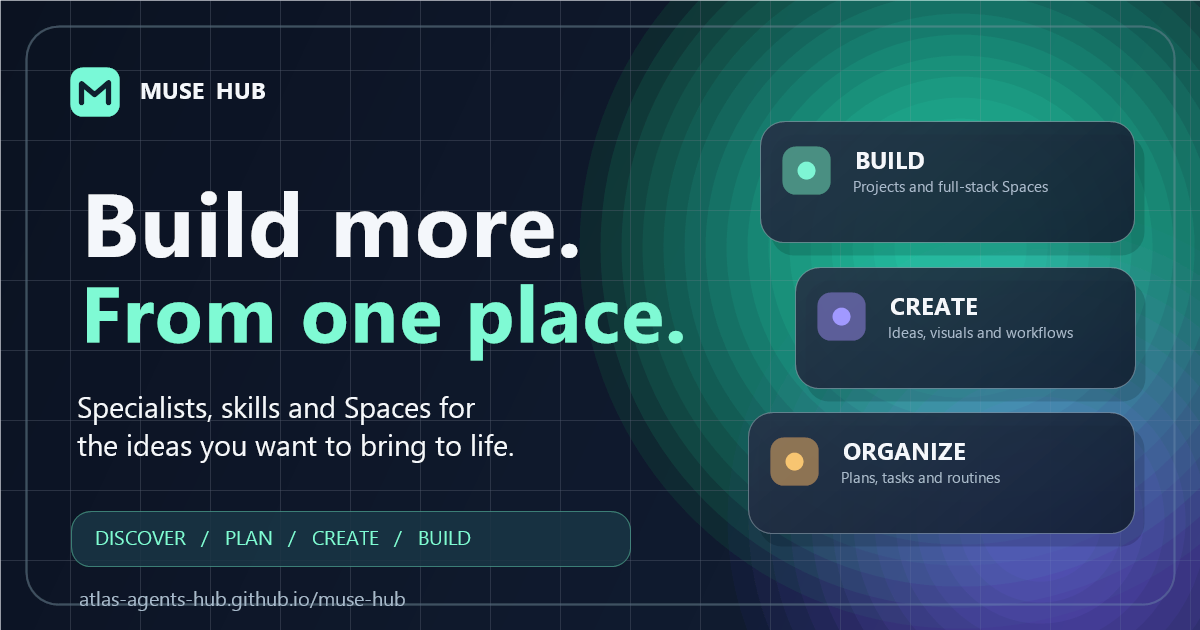
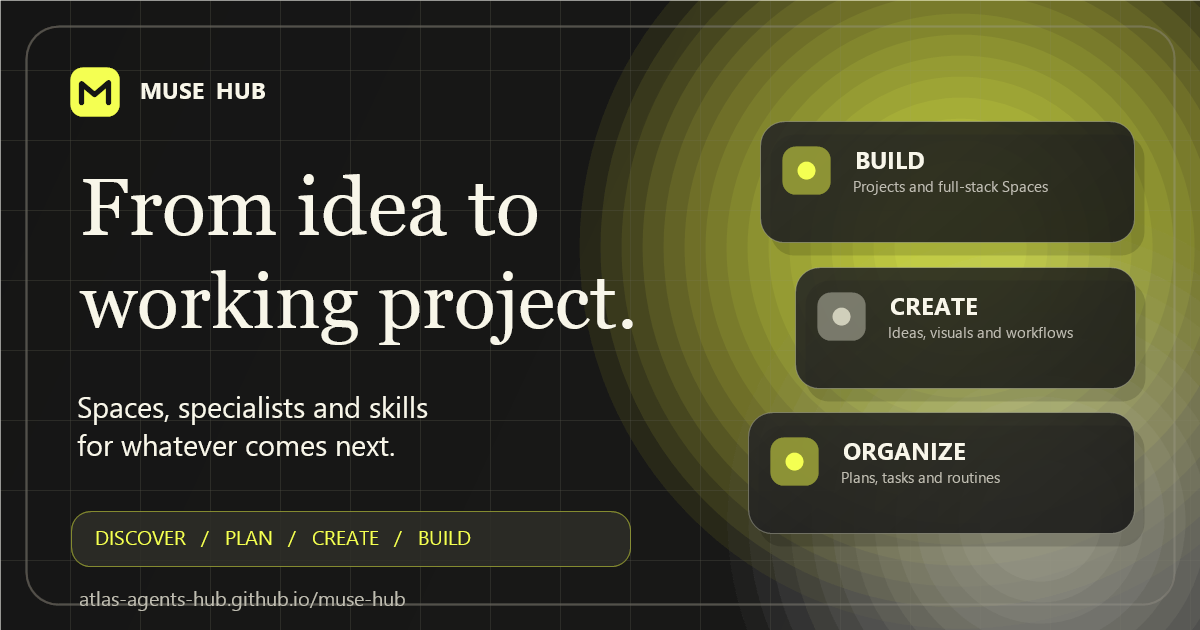
Restore Muse Hub brand palette and editorial typography

diff --git a/hub/site/site.css b/hub/site/site.css
@@ -361,118 +361,118 @@ button { cursor:pointer; }
 
 
 /* Muse Hub R3: product-first homepage. Scoped to this page only. */
-.muse-premium{--black:#0d1727;--paper:#f7f5ee;--paper-strong:#fffefa;--signal:#80ecd0;--line-dark:#334153;--line-paper:#d9dfdb;background:#0d1727;color:#f7f8f4;font:16px/1.55 Inter,"Segoe UI",Arial,sans-serif}
+.muse-premium{--black:#151515;--ink:#161616;--paper:#f8f6e9;--paper-strong:#fffcf1;--signal:#f4ff52;--line-dark:#43433f;--line-paper:#c9c7bd;background:var(--black);color:var(--paper);font:16px/1.56 var(--sans)}
 .muse-premium .shell{width:min(1160px,calc(100% - 64px))}
-.muse-premium :is(a,button,input,select,summary):focus-visible{outline:3px solid #53dfbd;outline-offset:4px}
-.muse-premium .site-header{background:#0d1727;border-bottom:1px solid #2f3c4b;position:sticky;top:0;z-index:60}
+.muse-premium :is(a,button,input,select,summary):focus-visible{outline:3px solid #f4ff52;outline-offset:4px}
+.muse-premium .site-header{background:#151515;border-bottom:1px solid #43433f;position:sticky;top:0;z-index:60}
 .muse-premium .header-inner{min-height:78px;gap:26px}
 .muse-premium .brand-text{letter-spacing:.10em;font-weight:820}
 .muse-premium .header-nav{gap:34px}
 .muse-premium .header-nav a{font-size:14px;font-weight:640}
-.muse-premium .header-github{font-size:13px;font-weight:700;border:1px solid #526374;border-radius:9px;padding:10px 15px}
+.muse-premium .header-github{font-size:13px;font-weight:700;border:1px solid #777770;border-radius:2px;padding:10px 15px}
 .muse-premium .mobile-navigation{display:none}
-.muse-premium .premium-eyebrow{display:inline-flex;align-items:center;gap:10px;letter-spacing:.14em;font-size:11px;font-weight:800;color:#398e7d}
-.muse-premium .premium-status-dot{width:8px;height:8px;border-radius:50%;background:#7aebc5;box-shadow:0 0 0 5px #7aebc51f;display:inline-block}
-.muse-premium .premium-hero{padding:84px 0 85px;background:radial-gradient(ellipse at 80% 18%,#284559 0%,#14263b 35%,#0d1727 75%);overflow:hidden}
+.muse-premium .premium-eyebrow{display:inline-flex;align-items:center;gap:10px;letter-spacing:.14em;font-size:11px;font-weight:800;color:#64624f}
+.muse-premium .premium-status-dot{width:8px;height:8px;border-radius:50%;background:#f4ff52;box-shadow:0 0 0 5px #f4ff521f;display:inline-block}
+.muse-premium .premium-hero{padding:84px 0 85px;background:var(--black);overflow:hidden}
 .muse-premium .premium-hero-grid{display:grid;grid-template-columns:minmax(0,1.06fr) minmax(340px,.94fr);align-items:center;gap:65px}
-.muse-premium .premium-hero .premium-eyebrow{color:#9ae9d4}
-.muse-premium .premium-hero h1{font-family:Inter,"Segoe UI",Arial,sans-serif;letter-spacing:-.065em;font-weight:820;font-size:clamp(48px,5.9vw,80px);line-height:1.02;max-width:720px;margin:22px 0 25px;text-wrap:balance}
-.muse-premium .premium-hero h1 span{color:#8ef0d4}
-.muse-premium .premium-lead{font-size:clamp(16px,1.55vw,19px);color:#cfdae0;max-width:595px;line-height:1.67;margin:0}
+.muse-premium .premium-hero .premium-eyebrow{color:var(--signal)}
+.muse-premium .premium-hero h1{font-family:var(--serif);letter-spacing:-.055em;font-weight:400;font-size:clamp(59px,6.5vw,104px);line-height:.985;max-width:720px;margin:22px 0 25px;text-wrap:balance}
+.muse-premium .premium-hero h1 span{color:var(--paper)}
+.muse-premium .premium-lead{font-size:clamp(16px,1.55vw,19px);color:#d3d2c8;max-width:595px;line-height:1.67;margin:0}
 .muse-premium .premium-hero-actions{display:flex;align-items:center;gap:12px;flex-wrap:wrap;margin-top:28px}
-.muse-premium .premium-button{display:inline-flex;justify-content:center;align-items:center;gap:20px;text-decoration:none;font-weight:780;font-size:14px;border-radius:11px;min-height:52px;padding:13px 19px;transition:transform .2s ease,background .2s ease,border-color .2s ease;text-align:center}
+.muse-premium .premium-button{display:inline-flex;justify-content:center;align-items:center;gap:20px;text-decoration:none;font-weight:780;font-size:14px;border-radius:2px;min-height:52px;padding:13px 19px;transition:transform .2s ease,background .2s ease,border-color .2s ease;text-align:center}
 .muse-premium .premium-button:hover{transform:translateY(-2px)}
-.muse-premium .premium-button-primary{background:#80ecd0;color:#122733}
-.muse-premium .premium-button-primary:hover{background:#a3f9e3}
-.muse-premium .premium-button-outline{border:1px solid #53677b;color:#f5f9fb;background:#ffffff08}
-.muse-premium .premium-button-outline:hover{border-color:#b0d3d6;background:#ffffff13}
-.muse-premium .premium-release{font-size:11px;color:#8196a8;margin-top:23px}
-.muse-premium .premium-product-preview{min-width:0;border:1px solid #476074;border-radius:24px;background:linear-gradient(160deg,#263d50,#101f31);padding:19px;box-shadow:0 25px 85px #050a14a6, inset 0 1px 0 #ffffff18;transform:rotate(1.5deg)}
-.muse-premium .premium-preview-top{display:flex;align-items:center;justify-content:space-between;gap:7px;font-size:10px;letter-spacing:.14em;color:#a9c2ca}
-.muse-premium .premium-preview-top>span:first-child{color:#7ee8d0;letter-spacing:.3em}
-.muse-premium .premium-preview-live{color:#95f4d8;border:1px solid #78eacc50;border-radius:99px;padding:4px 9px;font-size:9px}
+.muse-premium .premium-button-primary{background:#f4ff52;color:#151515}
+.muse-premium .premium-button-primary:hover{background:#fffbc0}
+.muse-premium .premium-button-outline{border:1px solid #777770;color:#f8f6e9;background:#ffffff08}
+.muse-premium .premium-button-outline:hover{border-color:#f4ff52;background:#ffffff13}
+.muse-premium .premium-release{font-size:11px;color:#aaa89c;margin-top:23px}
+.muse-premium .premium-product-preview{min-width:0;border:1px solid #77766c;border-radius:2px;background:#242421;padding:19px;box-shadow:0 25px 85px #080808b8, inset 0 1px 0 #ffffff18;transform:rotate(1.5deg)}
+.muse-premium .premium-preview-top{display:flex;align-items:center;justify-content:space-between;gap:7px;font-size:10px;letter-spacing:.14em;color:#aaa89f}
+.muse-premium .premium-preview-top>span:first-child{color:#f4ff52;letter-spacing:.3em}
+.muse-premium .premium-preview-live{color:#f4ff52;border:1px solid #f4ff5250;border-radius:2px;padding:4px 9px;font-size:9px}
 .muse-premium .premium-preview-title{display:flex;flex-direction:column;gap:4px;margin:35px 8px 19px}
-.muse-premium .premium-preview-title small{font-size:10px;letter-spacing:.13em;color:#adc6cc}
+.muse-premium .premium-preview-title small{font-size:10px;letter-spacing:.13em;color:#aaa89c}
 .muse-premium .premium-preview-title strong{font-size:24px;letter-spacing:-.03em}
 .muse-premium .premium-preview-flow{display:grid;gap:9px}
-.muse-premium .premium-preview-flow>div{display:flex;gap:16px;align-items:center;border:1px solid #ffffff19;border-radius:12px;background:#0c1b2d;padding:13px 14px}
+.muse-premium .premium-preview-flow>div{display:flex;gap:16px;align-items:center;border:1px solid #ffffff19;border-radius:2px;background:#20201e;padding:13px 14px}
 .muse-premium .premium-preview-flow strong,.muse-premium .premium-preview-flow small{display:block}
 .muse-premium .premium-preview-flow strong{font-size:14px;font-weight:730}
-.muse-premium .premium-preview-flow small{font-size:12px;color:#a3b7c1}
-.muse-premium .premium-icon{display:grid;place-items:center;width:37px;height:37px;border-radius:10px;font-size:11px;flex:none}
-.muse-premium .premium-icon.mint{background:#80ecd02c;color:#9af5d6}
-.muse-premium .premium-icon.violet{background:#aa9df02c;color:#dfd5ff}
-.muse-premium .premium-icon.gold{background:#f1c17b26;color:#ffd29b}
-.muse-premium .premium-preview-bottom{display:flex;justify-content:space-between;margin:17px 8px 3px;font-size:11px;color:#aac0c4}
+.muse-premium .premium-preview-flow small{font-size:12px;color:#bcbab0}
+.muse-premium .premium-icon{display:grid;place-items:center;width:37px;height:37px;border-radius:2px;font-size:11px;flex:none}
+.muse-premium .premium-icon.mint{background:#f4ff5224;color:#f4ff52}
+.muse-premium .premium-icon.violet{background:#d3d2c82c;color:#f8f6e9}
+.muse-premium .premium-icon.gold{background:#f4ff5226;color:#f4ff52}
+.muse-premium .premium-preview-bottom{display:flex;justify-content:space-between;margin:17px 8px 3px;font-size:11px;color:#bcbab0}
 .muse-premium .premium-section-heading{max-width:710px;margin-bottom:30px}
-.muse-premium .premium-section-heading h2,.muse-premium .premium-library h2{font:790 clamp(32px,4.2vw,49px)/1.09 Inter,"Segoe UI",Arial,sans-serif;letter-spacing:-.05em;margin:14px 0 10px;text-wrap:balance}
-.muse-premium .premium-section-heading p{font-size:16px;color:#64726d;max-width:640px;line-height:1.65;margin:0}
-.muse-premium .premium-paths{background:#f6f8f5;color:#0e2530;padding:78px 0 82px}
+.muse-premium .premium-section-heading h2,.muse-premium .premium-library h2{font:400 clamp(36px,4.6vw,59px)/1.06 var(--serif);letter-spacing:-.047em;margin:14px 0 10px;text-wrap:balance}
+.muse-premium .premium-section-heading p{font-size:16px;color:#5d5a50;max-width:640px;line-height:1.65;margin:0}
+.muse-premium .premium-paths{background:#f8f6e9;color:#161616;padding:78px 0 82px}
 .muse-premium .premium-path-grid{display:grid;grid-template-columns:repeat(3,minmax(0,1fr));gap:16px}
-.muse-premium .premium-path-card{background:#fff;border:1px solid #d8e3df;border-radius:17px;padding:30px 27px;min-height:246px;display:flex;flex-direction:column;text-decoration:none;box-shadow:0 5px 16px #153a2e0a;transition:transform .2s ease,box-shadow .2s ease, border-color .2s ease}
-.muse-premium .premium-path-card:hover{transform:translateY(-4px);border-color:#8fbfb2;box-shadow:0 14px 38px #153a2e15}
-.muse-premium .premium-card-number{font-size:11px;letter-spacing:.13em;font-weight:830;color:#357c74}
-.muse-premium .premium-path-card h3{font:770 27px/1.17 Inter,"Segoe UI",Arial,sans-serif;letter-spacing:-.045em;margin:24px 0 12px}
-.muse-premium .premium-path-card p{font-size:14px;line-height:1.6;color:#586a65;margin:0 0 24px}
-.muse-premium .premium-card-link{display:block;margin-top:auto;color:#176d5e;font-size:13px;font-weight:810}
-.muse-premium .premium-spaces{background:#f7f5ee;color:#132b33;padding:80px 0 88px}
+.muse-premium .premium-path-card{background:#fff;border:1px solid #c9c7bd;border-radius:2px;padding:30px 27px;min-height:246px;display:flex;flex-direction:column;text-decoration:none;box-shadow:0 5px 16px #2929190a;transition:transform .2s ease,box-shadow .2s ease, border-color .2s ease}
+.muse-premium .premium-path-card:hover{transform:translateY(-4px);border-color:#77766c;box-shadow:0 14px 38px #29291915}
+.muse-premium .premium-card-number{font-size:11px;letter-spacing:.13em;font-weight:830;color:#686556}
+.muse-premium .premium-path-card h3{font:400 31px/1.08 var(--serif);letter-spacing:-.039em;margin:24px 0 12px}
+.muse-premium .premium-path-card p{font-size:14px;line-height:1.6;color:#5d5a50;margin:0 0 24px}
+.muse-premium .premium-card-link{display:block;margin-top:auto;color:#5a6130;font-size:13px;font-weight:810}
+.muse-premium .premium-spaces{background:#f8f6e9;color:#161616;padding:80px 0 88px}
 .muse-premium .premium-heading-inline{max-width:none;display:flex;justify-content:space-between;align-items:end;gap:32px}
-.muse-premium .premium-text-link{font-size:13px;font-weight:780;text-decoration:none;white-space:nowrap;color:#176a60}
+.muse-premium .premium-text-link{font-size:13px;font-weight:780;text-decoration:none;white-space:nowrap;color:#444a08}
 .muse-premium .premium-text-link:hover{text-decoration:underline}
 .muse-premium .premium-space-grid{display:grid;grid-template-columns:repeat(3,minmax(0,1fr));gap:18px}
-.muse-premium .premium-space-card{background:#fff;border-radius:18px;border:1px solid #dadfd9;overflow:hidden;box-shadow:0 10px 40px #1d32220a;min-width:0}
+.muse-premium .premium-space-card{background:#fff;border-radius:2px;border:1px solid #c9c7bd;overflow:hidden;box-shadow:0 10px 40px #27271d0a;min-width:0}
 .muse-premium .premium-space-art{height:177px;padding:20px 20px 16px;overflow:hidden}
-.muse-premium .planner-art{background:#e2f4ed;color:#21453e}
-.muse-premium .board-art{background:#eae7fa;color:#353653}
-.muse-premium .desk-art{background:#f3eadd;color:#4a3931}
+.muse-premium .planner-art{background:#ecedc5;color:#292b1b}
+.muse-premium .board-art{background:#e6e3d5;color:#39382d}
+.muse-premium .desk-art{background:#eee7c6;color:#423f2b}
 .muse-premium .premium-art-caption{font-size:11px;font-weight:830;letter-spacing:.11em;display:flex;justify-content:space-between;margin-bottom:18px}
-.muse-premium .premium-art-item{font-size:12px;background:#ffffffba;border-radius:9px;margin:6px 0;padding:8px 11px}
+.muse-premium .premium-art-item{font-size:12px;background:#ffffffba;border-radius:2px;margin:6px 0;padding:8px 11px}
 .muse-premium .premium-art-columns{display:grid;grid-template-columns:repeat(3,minmax(0,1fr));gap:7px}
-.muse-premium .premium-art-columns span{min-width:0;background:#ffffffbc;border-radius:9px;padding:12px 7px;font-size:9px;line-height:1.5}
+.muse-premium .premium-art-columns span{min-width:0;background:#ffffffbc;border-radius:2px;padding:12px 7px;font-size:9px;line-height:1.5}
 .muse-premium .premium-art-columns b{font-size:10px;display:block;margin-top:7px;overflow-wrap:anywhere}
-.muse-premium .premium-desk-note{display:flex;flex-direction:column;gap:6px;background:#fff9f1be;border-radius:12px;padding:13px 15px}
+.muse-premium .premium-desk-note{display:flex;flex-direction:column;gap:6px;background:#fff9f1be;border-radius:2px;padding:13px 15px}
 .muse-premium .premium-desk-note small{font-size:9px;letter-spacing:.11em}
 .muse-premium .premium-desk-note strong{font-size:17px}
 .muse-premium .premium-desk-note span{font-size:11px}
 .muse-premium .premium-space-content{padding:24px 24px 27px}
 .muse-premium .premium-space-content h3{font-size:23px;letter-spacing:-.04em;margin:11px 0 8px}
-.muse-premium .premium-space-content p{font-size:14px;color:#566863;min-height:68px;line-height:1.55;margin:0 0 18px}
+.muse-premium .premium-space-content p{font-size:14px;color:#5d5a50;min-height:68px;line-height:1.55;margin:0 0 18px}
 .muse-premium .specialists{padding:73px 0 80px}
-.muse-premium .premium-specialist-count{font-size:12px;color:#307d72;background:#d6f1e8;border-radius:99px;padding:9px 16px;white-space:nowrap}
-.muse-premium .specialist-directory,.muse-premium .setup-disclosure{border:1px solid #b6cfc5;border-radius:14px;overflow:clip}
-.muse-premium .specialist-directory>summary,.muse-premium .setup-disclosure>summary{list-style:none;display:flex;align-items:center;justify-content:space-between;gap:16px;padding:19px 23px;font-size:15px;font-weight:800;cursor:pointer;background:#e8f5ef;color:#13493f}
+.muse-premium .premium-specialist-count{font-size:12px;color:#4b5220;background:#f4ff52;border-radius:2px;padding:9px 16px;white-space:nowrap}
+.muse-premium .specialist-directory,.muse-premium .setup-disclosure{border:1px solid #c9c7bd;border-radius:2px;overflow:clip}
+.muse-premium .specialist-directory>summary,.muse-premium .setup-disclosure>summary{list-style:none;display:flex;align-items:center;justify-content:space-between;gap:16px;padding:19px 23px;font-size:15px;font-weight:800;cursor:pointer;background:#f2f1d9;color:#252519}
 .muse-premium .specialist-directory>summary::-webkit-details-marker,.muse-premium .setup-disclosure>summary::-webkit-details-marker{display:none}
-.muse-premium .specialist-directory[open]>summary,.muse-premium .setup-disclosure[open]>summary{border-bottom:1px solid #cbdad2}
+.muse-premium .specialist-directory[open]>summary,.muse-premium .setup-disclosure[open]>summary{border-bottom:1px solid #c9c7bd}
 .muse-premium .specialist-directory>.role-toolbar{margin:22px 22px 8px}
 .muse-premium .specialist-directory>.role-result-line{margin-inline:22px}
 .muse-premium .specialist-directory>.role-grid{margin:15px 20px 22px}
 .muse-premium .specialist-directory>.section-footnote{margin:18px 22px 25px}
-.muse-premium .premium-library{position:relative;background:#11273a;color:#edf9f6;padding:76px 0}
+.muse-premium .premium-library{position:relative;background:#151515;color:#f8f6e9;padding:76px 0}
 .muse-premium .premium-library-grid{display:grid;grid-template-columns:minmax(0,1.2fr) minmax(300px,.8fr);gap:80px;align-items:center}
 .muse-premium .premium-library h2{max-width:520px}
-.muse-premium .premium-library .premium-eyebrow{color:#99ecdb}
-.muse-premium .premium-library p{color:#bdd2d5;max-width:500px;font-size:16px;line-height:1.65}
+.muse-premium .premium-library .premium-eyebrow{color:#f4ff52}
+.muse-premium .premium-library p{color:#d3d2c8;max-width:500px;font-size:16px;line-height:1.65}
 .muse-premium .premium-library-highlights{display:grid;gap:9px}
-.muse-premium .premium-library-highlights>div{border-radius:12px;border:1px solid #486575;background:#ffffff08;padding:15px 21px}
+.muse-premium .premium-library-highlights>div{border-radius:2px;border:1px solid #77766c;background:#ffffff08;padding:15px 21px}
 .muse-premium .premium-library-highlights small,.muse-premium .premium-library-highlights strong,.muse-premium .premium-library-highlights span{display:block}
-.muse-premium .premium-library-highlights small{letter-spacing:.12em;color:#89eaca;font-size:10px;font-weight:780}
+.muse-premium .premium-library-highlights small{letter-spacing:.12em;color:#f4ff52;font-size:10px;font-weight:780}
 .muse-premium .premium-library-highlights strong{font-size:15px;margin-top:4px}
-.muse-premium .premium-library-highlights span,.muse-premium .premium-library-highlights a{font-size:12px;color:#c9dade;margin-top:4px}
+.muse-premium .premium-library-highlights span,.muse-premium .premium-library-highlights a{font-size:12px;color:#d3d2c8;margin-top:4px}
 .muse-premium .setup{padding:75px 0 82px}
-.muse-premium .setup .premium-section-heading p{color:#b4cac9}
-.muse-premium .setup .premium-text-link{color:#9aeacb}
-.muse-premium .setup-disclosure{border-color:#486575}
-.muse-premium .setup-disclosure>summary{background:#183247;color:#dcfbf0}
+.muse-premium .setup .premium-section-heading p{color:#c2bfb2}
+.muse-premium .setup .premium-text-link{color:#f4ff52}
+.muse-premium .setup-disclosure{border-color:#77766c}
+.muse-premium .setup-disclosure>summary{background:#262624;color:#f8f6e9}
 .muse-premium .setup-disclosure>.setup-steps{margin:22px}
 .muse-premium .setup-disclosure>.setup-selector{margin:20px}
 .muse-premium .setup-disclosure>.setup-actions,.muse-premium .setup-disclosure>.setup-boundary{margin:20px}
-.muse-premium .premium-footer{background:#eaf1ec;color:#162d34}
+.muse-premium .premium-footer{background:#f8f6e9;color:#161616}
 .muse-premium .premium-footer-main{display:grid;grid-template-columns:1.2fr 1.1fr auto;gap:34px;align-items:start;padding:50px 0}
-.muse-premium .premium-footer-main p{margin:10px 0 0;color:#596b63;font-size:13px}
+.muse-premium .premium-footer-main p{margin:10px 0 0;color:#5d5a50;font-size:13px}
 .muse-premium .premium-footer-main nav{display:flex;gap:10px 22px;flex-wrap:wrap}
 .muse-premium .premium-footer-main nav a,.muse-premium .premium-footer-github{font-size:13px;font-weight:700;text-decoration:none}
 .muse-premium .premium-footer-main nav a:hover{text-decoration:underline}
-.muse-premium .premium-footer-bottom{display:flex;justify-content:space-between;border-top:1px solid #cddcd3;padding:18px 0;color:#63716c;font-size:11px;letter-spacing:.07em}
+.muse-premium .premium-footer-bottom{display:flex;justify-content:space-between;border-top:1px solid #c9c7bd;padding:18px 0;color:#77766c;font-size:11px;letter-spacing:.07em}
 .muse-premium [id]{scroll-margin-top:93px}
 @media (max-width: 1020px){
  .muse-premium .premium-hero-grid{gap:35px;grid-template-columns:1fr 370px}
@@ -494,14 +494,14 @@ button { cursor:pointer; }
  .muse-premium .brand-text{font-size:18px;letter-spacing:.07em}
  .muse-premium .header-nav,.muse-premium .header-github{display:none}
  .muse-premium .mobile-navigation{display:block;position:relative;margin-left:auto}
- .muse-premium .mobile-navigation>summary{list-style:none;cursor:pointer;font-weight:750;border:1px solid #4e6072;border-radius:9px;color:#f1faf6;padding:9px 12px;font-size:13px}
+ .muse-premium .mobile-navigation>summary{list-style:none;cursor:pointer;font-weight:750;border:1px solid #777770;border-radius:2px;color:#f8f6e9;padding:9px 12px;font-size:13px}
  .muse-premium .mobile-navigation>summary::-webkit-details-marker{display:none}
- .muse-premium .mobile-navigation>summary span{margin-left:8px;color:#8beccf}
- .muse-premium .mobile-navigation nav{position:absolute;right:0;top:calc(100% + 11px);min-width:min(310px,calc(100vw - 36px));z-index:99;padding:8px;background:#1a2c3d;border:1px solid #405b6a;border-radius:12px;box-shadow:0 16px 30px #0009}
- .muse-premium .mobile-navigation nav a{display:block;padding:11px 14px;border-radius:7px;text-decoration:none;font-size:14px;color:#f3faf8}
- .muse-premium .mobile-navigation nav a:hover{background:#315065}
+ .muse-premium .mobile-navigation>summary span{margin-left:8px;color:#f4ff52}
+ .muse-premium .mobile-navigation nav{position:absolute;right:0;top:calc(100% + 11px);min-width:min(310px,calc(100vw - 36px));z-index:99;padding:8px;background:#262624;border:1px solid #77766c;border-radius:2px;box-shadow:0 16px 30px #0009}
+ .muse-premium .mobile-navigation nav a{display:block;padding:11px 14px;border-radius:2px;text-decoration:none;font-size:14px;color:#f8f6e9}
+ .muse-premium .mobile-navigation nav a:hover{background:#393935}
  .muse-premium .premium-hero{padding:57px 0 61px}
- .muse-premium .premium-hero h1{font-size:clamp(42px,12vw,58px);letter-spacing:-.065em;line-height:1.04;margin:20px 0}
+ .muse-premium .premium-hero h1{font-size:clamp(53px,12.5vw,68px);letter-spacing:-.055em;line-height:.99;margin:20px 0}
  .muse-premium .premium-lead{font-size:16px;line-height:1.62}
  .muse-premium .premium-hero-actions{gap:10px;margin-top:24px}
  .muse-premium .premium-button{width:100%;min-height:49px;justify-content:space-between;padding:12px 17px}
@@ -526,7 +526,7 @@ button { cursor:pointer; }
 }
 @media (max-width: 360px){
  .muse-premium .shell{width:calc(100% - 28px)}
- .muse-premium .premium-hero h1{font-size:41px}
+ .muse-premium .premium-hero h1{font-size:47px}
  .muse-premium .brand-text{font-size:16px}
  .muse-premium .premium-art-columns span{font-size:8px}
 }
@@ -538,8 +538,11 @@ button { cursor:pointer; }
 @media (max-width: 690px){
  .muse-premium .premium-space-grid{display:flex;gap:13px;overflow-x:auto;overscroll-behavior-x:contain;scroll-snap-type:x mandatory;scroll-padding-inline:0;-webkit-overflow-scrolling:touch;padding:1px 2px 18px 1px}
  .muse-premium .premium-space-card{flex:0 0 min(84%,322px);scroll-snap-align:start}
- .muse-premium .premium-space-grid:focus-visible{outline:3px solid #176b5d;outline-offset:5px}
+ .muse-premium .premium-space-grid:focus-visible{outline:3px solid #f4ff52;outline-offset:5px}
  .muse-premium .premium-space-grid::-webkit-scrollbar{height:5px}
- .muse-premium .premium-space-grid::-webkit-scrollbar-thumb{background:#8ebdad;border-radius:8px}
- .muse-premium .premium-space-grid::-webkit-scrollbar-track{background:#e2e8df}
+ .muse-premium .premium-space-grid::-webkit-scrollbar-thumb{background:#aaa89c;border-radius:2px}
+ .muse-premium .premium-space-grid::-webkit-scrollbar-track{background:#dedbcb}
 }
+
+/* Signal color stays legible in the dark onboarding region. */
+.muse-premium .setup .premium-eyebrow{color:var(--signal)}

diff --git a/hub/site/index.html b/hub/site/index.html
@@ -23,7 +23,7 @@
   <meta name="twitter:title" content="Muse Hub | Build Apps, AI Agent Skills &amp; Workflows">
   <meta name="twitter:description" content="Build from complete Space templates, specialist kits and reusable AI agent workflows.">
   <meta name="twitter:image" content="https://atlas-agents-hub.github.io/muse-hub/social-card.png">
-  <meta name="theme-color" content="#0d1727">
+  <meta name="theme-color" content="#151515">
   <title>Muse Hub | Build Apps, AI Agent Skills &amp; Workflows</title>
   <script type="application/ld+json">
 {

diff --git a/tests/test_hub_brand_identity.py b/tests/test_hub_brand_identity.py
@@ -1,0 +1,41 @@
+"""Protect Muse Hub's established visual identity across future redesigns."""
+from __future__ import annotations
+
+from pathlib import Path
+import re
+import unittest
+
+ROOT=Path(__file__).resolve().parents[1]
+CSS=(ROOT/"hub/site/site.css").read_text(encoding="utf-8")
+HTML=(ROOT/"hub/site/index.html").read_text(encoding="utf-8")
+
+class MuseBrandIdentityTests(unittest.TestCase):
+    def test_existing_brand_tokens_remain_authoritative(self):
+        for token in ("--black:#151515", "--ink:#161616", "--paper:#f8f6e9",
+                      "--paper-strong:#fffcf1", "--signal:#f4ff52",
+                      '--serif:Georgia,"Iowan Old Style","Baskerville",serif'):
+            self.assertIn(token,CSS)
+
+    def test_new_site_uses_exact_brand_and_serif(self):
+        section=CSS.split("/* Muse Hub R3: product-first homepage. Scoped to this page only. */",1)[1]
+        self.assertIn("--signal:#f4ff52",section)
+        self.assertIn("background:var(--black)",section)
+        self.assertIn("font-family:var(--serif)",section)
+        self.assertIn("var(--serif)",section)
+        self.assertIn(".setup .premium-eyebrow{color:var(--signal)}",section)
+        self.assertIn('<meta name="theme-color" content="#151515">',HTML)
+        self.assertNotIn("#0d1727",section)
+        for unbranded in ("#80ecd0","#8ef0d4","#7aebc5","#14263b","#263d50"):
+            self.assertNotIn(unbranded,section)
+
+    def test_logo_and_brand_color_survive_in_site(self):
+        self.assertIn("brand-symbol",HTML)
+        self.assertIn("brand-text",HTML)
+        self.assertIn("MUSE <span>HUB</span>",HTML)
+        self.assertIn("premium-button-primary",HTML)
+        self.assertIn("premium-product-preview",HTML)
+        self.assertIn("premium-space-grid",HTML)
+        self.assertTrue((ROOT/"hub/site/social-card.png").is_file())
+
+if __name__=="__main__":
+    unittest.main()

diff --git a/docs/BRAND_SYSTEM.md b/docs/BRAND_SYSTEM.md
@@ -1,0 +1,44 @@
+# Muse Hub — Visual Identity
+
+The Muse Hub identity is a controlled part of the product, not a replaceable theme. Every page, new Space catalogue view, marketing asset and social image uses the same shared palette and typography.
+
+## Design tokens
+
+| Token | Hex | Use |
+| --- | --- | --- |
+| Black | `#151515` | Dark canvases, site header, hero, primary text |
+| Ink | `#161616` | Text on paper, black detail work |
+| Warm paper | `#F8F6E9` | Alternating light sections, page backgrounds |
+| Paper strong | `#FFFCF1` | Cards, fields, editorial surfaces |
+| Electric signal | `#F4FF52` | Primary CTA, signal labels, selected accents, focus indicator |
+| Dark border | `#43433F` | Lines on black |
+| Paper border | `#C9C7BD` | Lines on cream |
+
+The canonical CSS variables live at the top of `hub/site/site.css`. The homepage `.muse-premium` class may set the same values for page isolation but must never establish a divergent palette.
+
+## Type and mark
+
+Display headings use `Georgia, "Iowan Old Style", Baskerville, serif`, regular weight, generous size and restrained letter spacing. Interface labels, actions, body content, form controls and small metadata use `Inter, "Helvetica Neue", Arial, system-ui, sans-serif`. Preserve the existing two-path **M** symbol and spaced **MUSE HUB** wordmark from the site header; do not substitute a different logo or invent a new product name.
+
+## Application rules
+
+- Black hero with large cream serif headline and yellow accent/CTA, not gradients or a generic pastel SaaS hero
+- Cream information sections alternating with charcoal functional sections
+- Crisp strokes, rectangular controls, editorial grid alignment, purposeful negative space
+- Yellow used deliberately for actionable priority and signal, not as an overwhelming fill everywhere
+- Mobile navigation in one row, large touch targets and visible keyboard focus
+- Respect `prefers-reduced-motion`, no horizontal page overflow at 320px and 390px
+- Preserve information architecture and working product links when iterating on the visual design
+
+## Verification
+
+Run the source-level brand gate and browser interaction gates after any design change:
+
+```powershell
+$env:PYTHONPATH = "src"
+python -B -m unittest discover -s tests -p "test_hub_brand_identity.py" -v
+python -B -m unittest discover -s tests -p "test_hub_home_product_journey.py" -v
+python -B scripts/render_downloads.py --check
+```
+
+The branded social preview lives at `hub/site/social-card.png`; its checksum and byte count are recorded in `hub/site/INTEGRITY.json`. The exact image is included through the strict public-source admission path.
